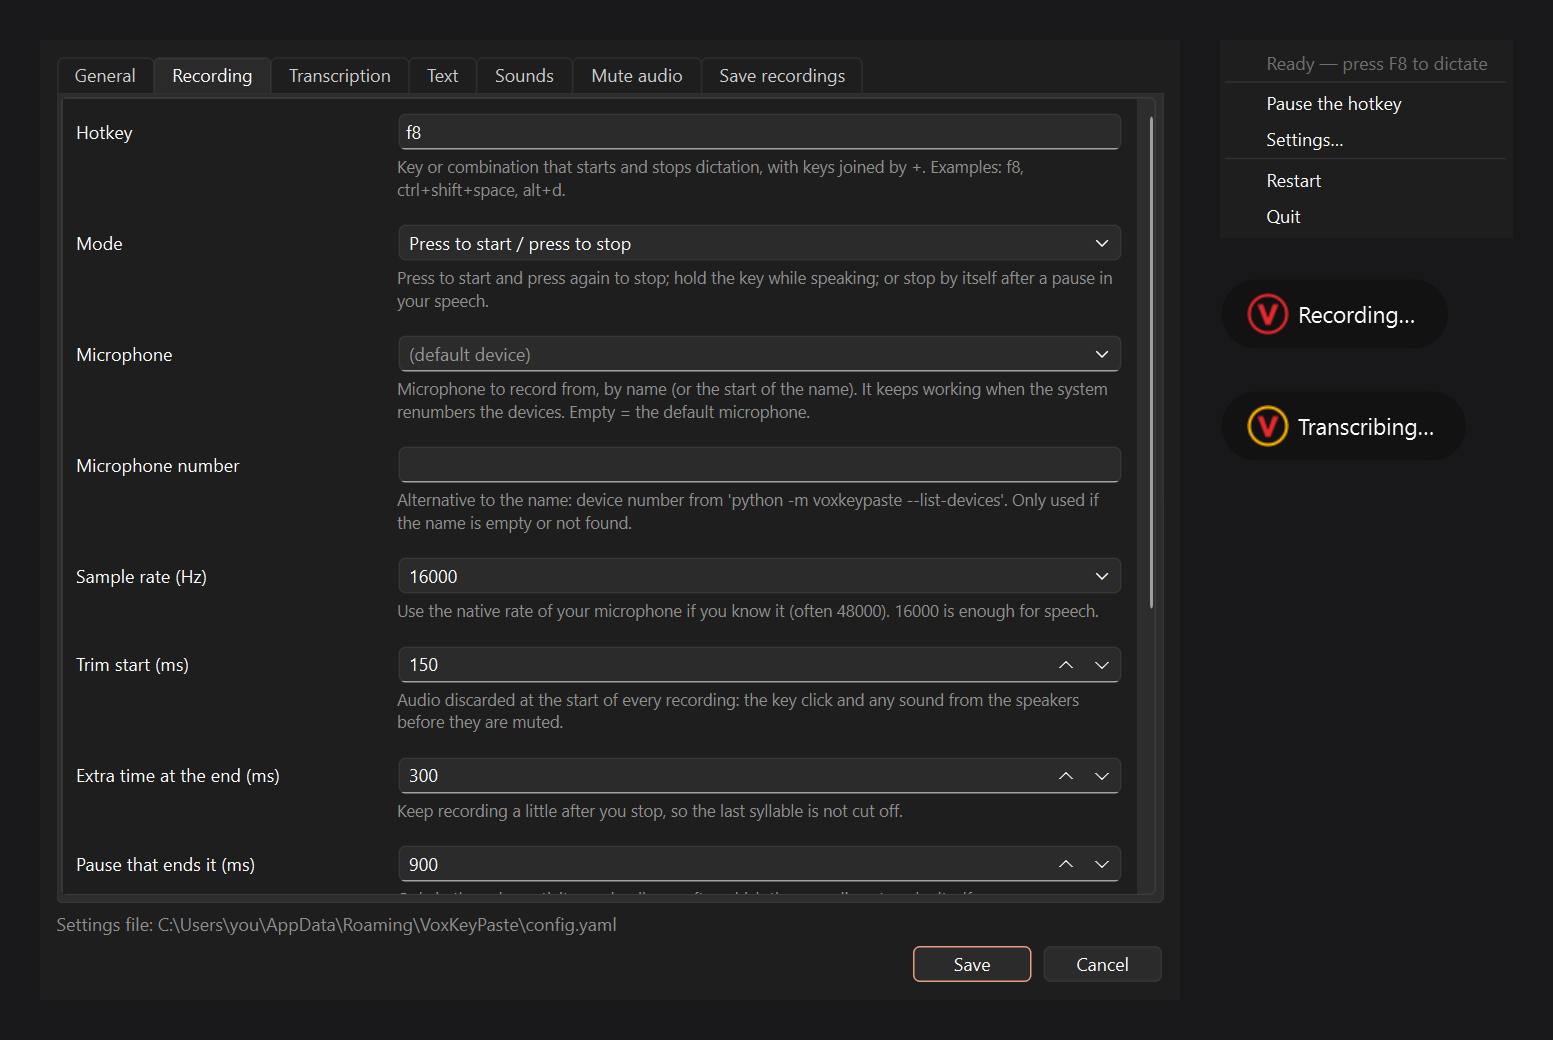
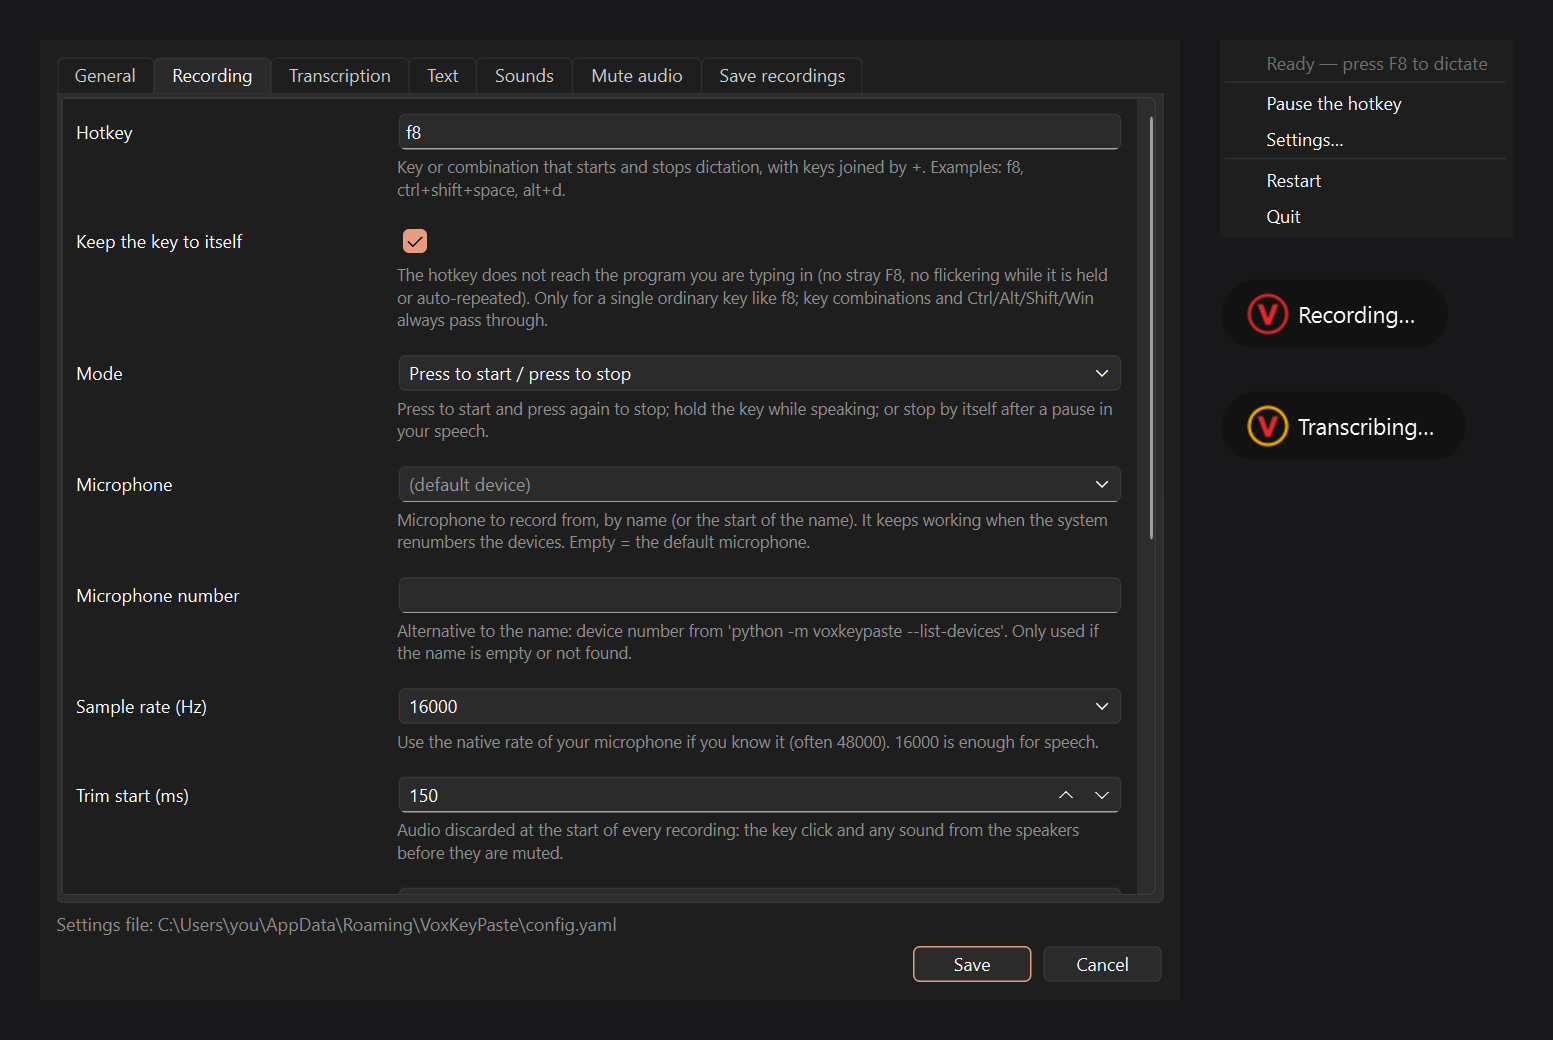
Release 1.0.0: updated cover screenshots and changelog
Claude-Session: https://claude.ai/code/session_01St6Ugmr9kq2pz1Yz6ycs2C

diff --git a/CHANGELOG.md b/CHANGELOG.md
@@ -1,10 +1,11 @@
 # Changelog
 
-## 1.0.0 — 2026-11
+## 1.0.0 — 2026-10-31
 
 First public version.
 
-- Global hotkey with three modes: toggle, hold to talk, stop after a pause.
+- Global hotkey with three modes: toggle, hold to talk, stop after a pause. A single-key hotkey such as F8
+  is kept away from the program you type in (including its auto-repeat).
 - Local transcription (faster-whisper) or any OpenAI-compatible API.
 - Paste the whole text at once (clipboard, restored afterwards) or type it.
 - Start, stop and "done" sounds through one persistent output stream; output device by name.
